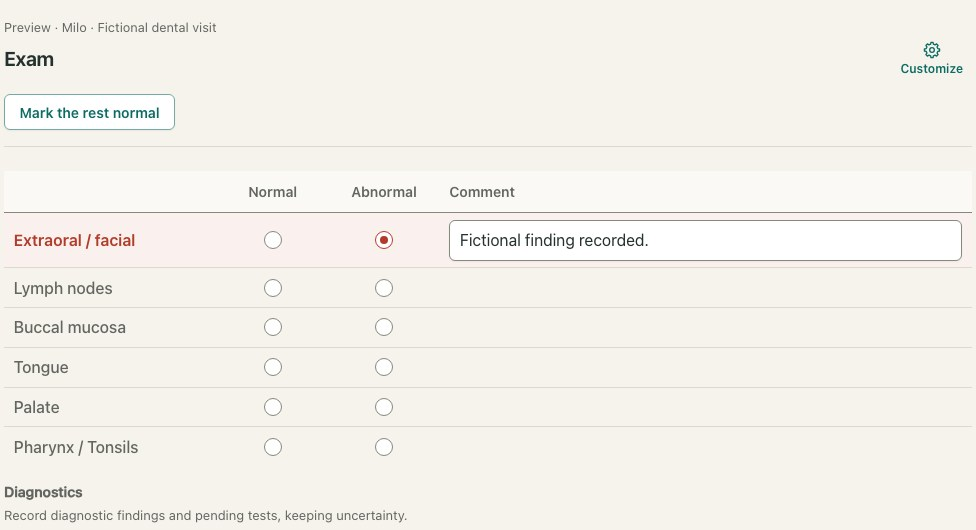
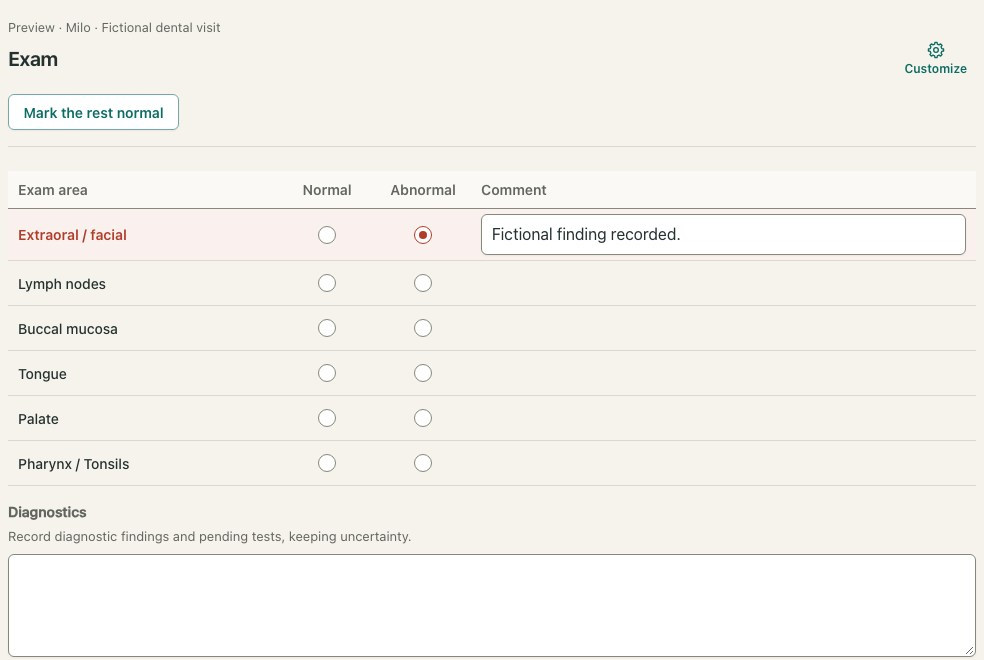
Align exam rows and comments across screen sizes

diff --git a/src/components/EntryGrid.css b/src/components/EntryGrid.css
@@ -1618,78 +1618,6 @@
   overflow-wrap: anywhere;
 }
 
-/* Exam table — same chrome as anesthesia, but adds a comment column. */
-.exam-table {
-  width: 100%;
-  border-collapse: collapse;
-}
-
-.exam-table thead th {
-  text-align: start;
-  font-size: 0.7rem;
-  font-weight: 600;
-  text-transform: uppercase;
-  letter-spacing: 0.05em;
-  color: var(--text-muted);
-  padding: 0.4rem 0.6rem;
-}
-
-.exam-table thead th:nth-child(2),
-.exam-table thead th:nth-child(3) {
-  text-align: center;
-  width: 5rem;
-}
-
-.exam-table tbody td {
-  padding: 0.4rem 0.6rem;
-  vertical-align: middle;
-}
-
-.exam-table__radio {
-  text-align: center;
-  width: 6rem;
-  padding: 0 !important;
-}
-
-/* The whole cell is the click target (gloved hands, quick passes) —
-   the label stretches across it and centers a properly sized control. */
-.exam-table__radio-hit {
-  display: flex;
-  align-items: center;
-  justify-content: center;
-  padding: 0.65rem 0.6rem;
-  cursor: pointer;
-}
-
-.exam-table__radio input[type="radio"] {
-  width: 18px;
-  height: 18px;
-  cursor: pointer;
-}
-
-.exam-table__comment-col {
-  width: 55%;
-}
-
-.exam-table__comment {
-  width: 100%;
-  padding: 0.4rem 0.6rem;
-}
-
-/* Abnormal findings should be scannable from across the room. */
-.exam-table__row--abnormal td {
-  background: var(--ios-grid-abnormal-bg, var(--danger-tint));
-}
-
-.exam-table__row--abnormal .anesthesia-table__label {
-  color: var(--ios-grid-abnormal-label, var(--danger));
-  font-weight: 600;
-}
-
-.exam-table__row--abnormal input[type="radio"] {
-  --selection-accent: var(--danger);
-}
-
 /* Surgery Report */
 .surgery-report__textarea {
   min-height: 180px;
@@ -2705,7 +2633,6 @@
 
   /* Anesthesia + exam tables get less padding. */
   .anesthesia-table tbody td,
-  .exam-table tbody td { padding: 0.3rem 0.45rem; }
   .anesthesia-drug__label { flex-basis: 100%; padding-top: 0; }
   .anesthesia-drug__stack { flex: 1; min-width: 0; align-items: stretch; }
   .anesthesia-drug__input { max-width: none; min-width: 0; width: auto; flex: 1; }
@@ -3999,8 +3926,6 @@ button.save-status--manual:hover {
   .entry-grid__topbar { row-gap: 0.4rem; }
   .entry-grid__topbar-lead { flex: 1 1 100%; }
   .entry-grid__topbar-actions { flex: 1 1 100%; justify-content: flex-end; }
-  /* The exam table scrolls sideways rather than overflowing the card. */
-  .exam-table { display: block; overflow-x: auto; }
 }
 /* Header actions (e.g. "Mark the rest normal") sit at the right edge. */
 .dental-grid__section-header > .diagram-view__action { margin-inline-start: auto; }
@@ -4413,20 +4338,6 @@ button.save-status--manual:hover {
  * =============================================================================
  */
 
-/* Exam comments wrap onto as many lines as they need (auto-grown in JS)
-   instead of scrolling sideways inside a one-line input. */
-.exam-table__comment {
-  display: block;
-  box-sizing: border-box;
-  resize: none;
-  overflow: hidden;
-  font-family: inherit;
-  line-height: 1.35;
-  min-height: 2.4em;
-  white-space: pre-wrap;
-  overflow-wrap: anywhere;
-}
-
 /* Anesthesia "Other": full-width free text under the L/R table, label
    above, so it gets the whole card width on every screen. */
 .anesthesia-other {
@@ -4456,30 +4367,6 @@ button.save-status--manual:hover {
 @media (max-width: 600px) {
   .fab-download { bottom: calc(0.9rem + env(safe-area-inset-bottom, 0px)); }
   .fab-download.fab-download--secondary { bottom: calc(4.6rem + env(safe-area-inset-bottom, 0px)); }
-
-  /* Exam: a four-column table can't fit a phone — the comment column was
-     pushed off the card. Each finding becomes a row of label + Normal +
-     Abnormal, with its comment full-width underneath. */
-  .exam-table,
-  .exam-table thead,
-  .exam-table tbody { display: block; }
-  .exam-table tr {
-    display: grid;
-    grid-template-columns: minmax(0, 1fr) 4.5rem 4.5rem;
-    align-items: center;
-  }
-  .exam-table th.exam-table__comment-col { display: none; }
-  .exam-table thead th:nth-child(2),
-  .exam-table thead th:nth-child(3) { width: auto; padding: 0.4rem 0; }
-  .exam-table__radio { width: auto; }
-  .exam-table tbody td.exam-table__comment-col {
-    grid-column: 1 / -1;
-    width: auto;
-    padding-top: 0;
-  }
-  .exam-table tbody td.exam-table__comment-col:empty { display: none; }
-  .exam-table tbody tr { border-bottom: 1px solid var(--border); }
-  .exam-table__row--abnormal { background: var(--ios-grid-abnormal-bg, var(--danger-tint)); }
 
   /* Anesthesia: the label column held half the width, squeezing the
      dose fields until "0.25" showed as "0.". Labels wrap instead. */
@@ -4607,7 +4494,6 @@ a, button, input, select, textarea, label, summary, [role='button'] {
     min-height: 44px;
   }
   .charting-view-switch__btn { display: inline-flex; align-items: center; }
-  .exam-table__radio-hit { min-height: 44px; box-sizing: border-box; }
   .diagram-view__textsize-btn { min-width: 44px; min-height: 44px; }
   .diagram-view__action { min-width: 44px; justify-content: center; }
 

diff --git a/src/components/ExamForm.tsx b/src/components/ExamForm.tsx
@@ -7,6 +7,7 @@ import { FormGroup } from '../ios/Form';
 import { MAX_EXAM_COMMENT } from '../utils/customExam';
 import { EXAM_DIAGNOSTICS_ID, isBuiltInExamArea, isCustomExamText, type ExamLayoutField } from '../utils/examLayout';
 import { RefineTextAction } from './RefineTextAction';
+import './ExamForm.css';
 
 const NORMAL = 'normal' as const;
 const ABNORMAL = 'abnormal' as const;
@@ -239,28 +240,29 @@ export const ExamForm: React.FC<ExamFormProps> = ({
   );
 
   const webAreaGroup = (group: Row[]) => (
-    <table className="exam-table" key={group[0].id}>
-      <thead>
-        <tr>
-          <th></th>
-          <th>{t('exam.normal')}</th>
-          <th>{t('exam.abnormal')}</th>
-          <th className="exam-table__comment-col">{t('exam.comment')}</th>
+    <table className="exam-table" key={group[0].id} role="table">
+      <thead role="rowgroup">
+        <tr role="row">
+          <th className="exam-table__area" scope="col" role="columnheader">{t('exam.layout.area')}</th>
+          <th className="exam-table__status" scope="col" role="columnheader">{t('exam.normal')}</th>
+          <th className="exam-table__status" scope="col" role="columnheader">{t('exam.abnormal')}</th>
+          <th className="exam-table__comment-col" scope="col" role="columnheader">{t('exam.comment')}</th>
         </tr>
       </thead>
-      <tbody>
+      <tbody role="rowgroup">
         {group.map((item) => {
           const { label } = item;
           const groupName = `exam-${item.id}`;
           return (
             <tr
               key={item.id}
+              role="row"
               className={item.status === 'abnormal' ? 'exam-table__row--abnormal' : undefined}
             >
-              <td className="anesthesia-table__label">{label}</td>
+              <th className="exam-table__area" scope="row" role="rowheader" dir="auto">{label}</th>
               {/* The whole cell is the hit area — this gets used with
                   gloves on; a bare 13px radio is not a target. */}
-              <td className="exam-table__radio">
+              <td className="exam-table__radio" role="cell">
                 <label className="exam-table__radio-hit">
                   <input
                     type="radio"
@@ -274,7 +276,7 @@ export const ExamForm: React.FC<ExamFormProps> = ({
                   />
                 </label>
               </td>
-              <td className="exam-table__radio">
+              <td className="exam-table__radio" role="cell">
                 <label className="exam-table__radio-hit">
                   <input
                     type="radio"
@@ -287,7 +289,7 @@ export const ExamForm: React.FC<ExamFormProps> = ({
                   />
                 </label>
               </td>
-              <td className="exam-table__comment-col">
+              <td className="exam-table__comment-col" role="cell">
                 {showComment(item) && (
                   <CommentBox
                     label={label}
@@ -308,7 +310,7 @@ export const ExamForm: React.FC<ExamFormProps> = ({
   const native = isNativeApp();
   const areaGroup = native ? nativeAreaGroup : webAreaGroup;
   return (
-    <div className={native ? 'dental-grid-section exam-ios' : 'dental-grid-section'}>
+    <div className={native ? 'dental-grid-section exam-ios' : 'dental-grid-section dental-exam'}>
       {header}
       {layout && rows.length === 0 && <p className="chart-settings__note" role="status">{t('exam.layout.empty')}</p>}
       {groups.map(group => Array.isArray(group) ? areaGroup(group) : textField(group))}

diff --git a/src/components/ExamForm.css b/src/components/ExamForm.css
@@ -1,0 +1,125 @@
+.dental-exam {
+  container: dental-exam / inline-size;
+}
+
+.exam-table {
+  width: 100%;
+  table-layout: fixed;
+  border-collapse: collapse;
+  font-size: 0.875rem;
+}
+
+.exam-table tr {
+  border-block-end: 1px solid var(--border);
+}
+
+.exam-table :is(th, td) {
+  padding: 0;
+  vertical-align: middle;
+}
+
+.exam-table thead tr {
+  background: var(--surface-alt);
+  color: var(--text-muted);
+  border-color: var(--border-strong);
+}
+
+.exam-table thead th {
+  padding-block: 10px;
+  font-weight: 600;
+  min-inline-size: 0;
+  overflow-wrap: anywhere;
+}
+
+.exam-table__area {
+  width: 28%;
+  text-align: start;
+}
+
+.exam-table .exam-table__area,
+.exam-table .exam-table__comment-col {
+  padding-inline: 10px;
+  overflow-wrap: anywhere;
+}
+
+.exam-table tbody .exam-table__area {
+  padding-block: 8px;
+  font-weight: 500;
+}
+
+.exam-table__status {
+  width: 6rem;
+  text-align: center;
+}
+
+.exam-table thead .exam-table__comment-col {
+  text-align: start;
+}
+
+.exam-table tbody .exam-table__comment-col {
+  padding-block: 5px;
+}
+
+/* The label offers a full-width target for gloved and touch input. */
+.exam-table__radio-hit {
+  display: grid;
+  place-items: center;
+  min-block-size: 44px;
+  cursor: pointer;
+}
+
+.exam-table__radio-hit:has(input:disabled) {
+  cursor: default;
+}
+
+.exam-table__row--abnormal {
+  background: var(--danger-tint);
+  --selection-accent: var(--danger);
+}
+
+.exam-table tbody .exam-table__row--abnormal .exam-table__area {
+  color: var(--danger);
+  font-weight: 600;
+}
+
+.exam-table__comment {
+  display: block;
+  box-sizing: border-box;
+  inline-size: 100%;
+  min-block-size: 2.4em;
+  padding: 0.4rem 0.6rem;
+  resize: none;
+  overflow: hidden;
+  font-family: inherit;
+  line-height: 1.35;
+  white-space: pre-wrap;
+  overflow-wrap: anywhere;
+}
+
+@container dental-exam (max-width: 34rem) {
+  .exam-table,
+  .exam-table thead,
+  .exam-table tbody {
+    display: block;
+  }
+
+  .exam-table tr {
+    display: grid;
+    grid-template-columns: minmax(0, 1fr) repeat(2, minmax(4rem, 25%));
+    align-items: center;
+  }
+
+  .exam-table :is(.exam-table__area, .exam-table__status) {
+    width: auto;
+  }
+
+  .exam-table thead .exam-table__comment-col,
+  .exam-table tbody .exam-table__comment-col:empty {
+    display: none;
+  }
+
+  .exam-table tbody .exam-table__comment-col {
+    grid-column: 1 / -1;
+    padding-block: 0 8px;
+  }
+}

diff --git a/src/components/ClinicalPolish.css b/src/components/ClinicalPolish.css
@@ -96,8 +96,8 @@ html:not(.native-ios) .entry-grid-container .entry-grid-form .species-tab:focus-
   outline-offset: 2px;
 }
 
-/* Clinical tables use plain readable labels; abnormal row signals remain intact. */
-html:not(.native-ios) .entry-grid-container .entry-grid-form :is(.exam-table, .anesthesia-table) thead th {
+/* Anesthesia table labels match the rest of the chart. */
+html:not(.native-ios) .entry-grid-container .entry-grid-form .anesthesia-table thead th {
   padding-block: 12px;
   font-size: var(--clinical-label-size);
   text-transform: none;
@@ -105,10 +105,10 @@ html:not(.native-ios) .entry-grid-container .entry-grid-form :is(.exam-table, .a
   background: var(--surface-alt);
   border-bottom: 1px solid var(--border-strong);
 }
-html:not(.native-ios) .entry-grid-container .entry-grid-form :is(.exam-table, .anesthesia-table) tbody td {
+html:not(.native-ios) .entry-grid-container .entry-grid-form .anesthesia-table tbody td {
   border-bottom: 1px solid var(--border);
 }
-html:not(.native-ios) .entry-grid-container .entry-grid-form :is(.exam-table, .anesthesia-table) tbody tr:last-child td {
+html:not(.native-ios) .entry-grid-container .entry-grid-form .anesthesia-table tbody tr:last-child td {
   border-bottom: 0;
 }
 html:not(.native-ios) .entry-grid-container .entry-grid-form .anesthesia-drug {
@@ -181,7 +181,7 @@ html:not(.native-ios) .entry-grid-container .entry-grid-form .imaging__uploader 
     margin-bottom: 20px;
   }
   /* Keep touch targets outside the chart large enough without expanding chart cells. */
-  html:not(.native-ios) .entry-grid-container .entry-grid-form :is(.species-tab, .diagram-view__action, .diagram-view__tool, .anesthesia-drug__add, .anesthesia-drug__remove, .imaging__queue-dismiss, .exam-table__radio-hit, .visit-documentation__short-text) {
+  html:not(.native-ios) .entry-grid-container .entry-grid-form :is(.species-tab, .diagram-view__action, .diagram-view__tool, .anesthesia-drug__add, .anesthesia-drug__remove, .imaging__queue-dismiss, .visit-documentation__short-text) {
     min-height: 44px;
     min-width: 44px;
   }

diff --git a/src/help/topics.ts b/src/help/topics.ts
@@ -23,7 +23,7 @@ export const HELP_SCREENSHOTS: Partial<Record<HelpTopic, readonly HelpScreenshot
   start: [{ caption: 'start', src: '/help/screenshots/chart-overview.jpg', width: 1280, height: 605, section: 'first' }],
   patients: [{ caption: 'patients', src: '/help/screenshots/patient-history.jpg', width: 1132, height: 772, section: 'third' }],
   exam: [
-    { caption: 'exam', src: '/help/screenshots/exam.jpg', width: 976, height: 530, section: 'first' },
+    { caption: 'exam', src: '/help/screenshots/exam.jpg', width: 984, height: 660, section: 'first' },
     { caption: 'examCustomize', src: '/help/screenshots/exam-customize.jpg', width: 964, height: 784, section: 'first' },
   ],
   consultation: [
